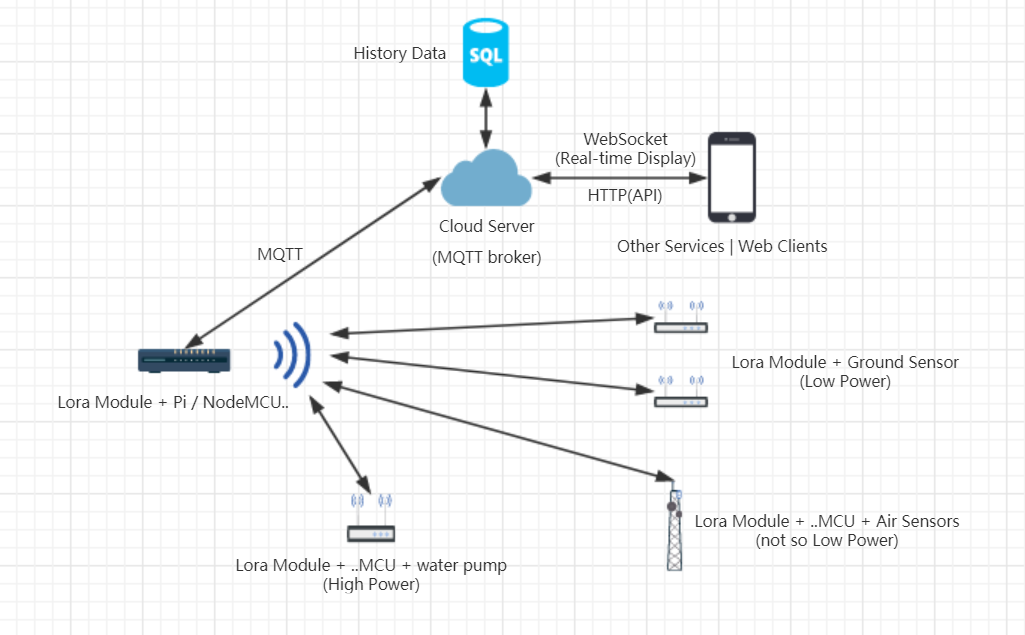
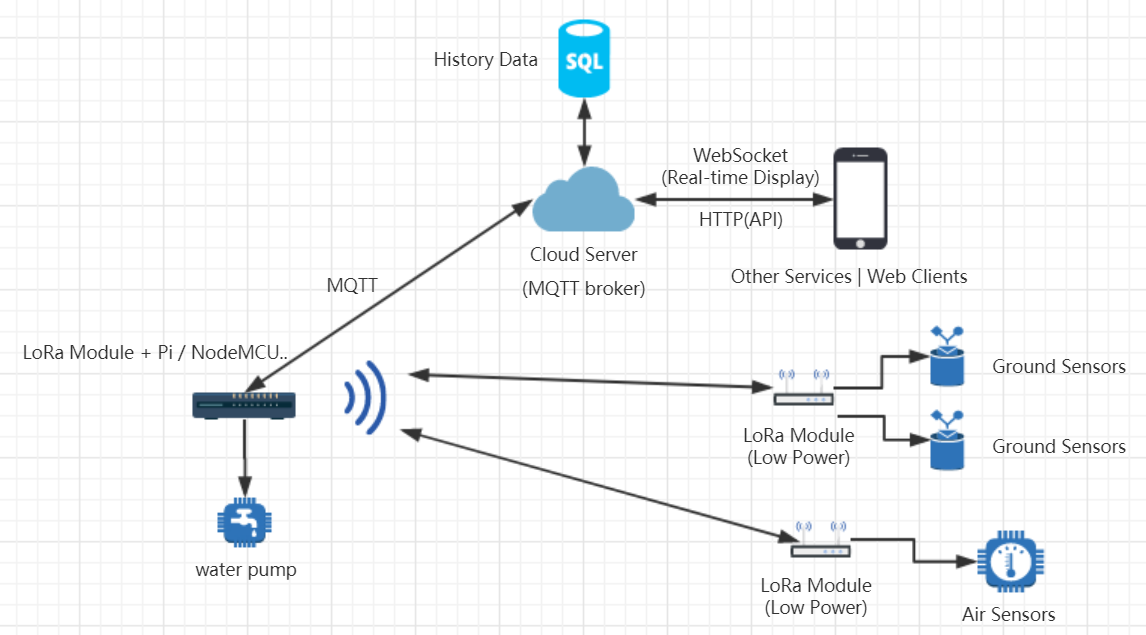
add fake LoRa

diff --git a/materials/architecture/LoRa_plan.md b/materials/architecture/LoRa_plan.md
@@ -10,21 +10,60 @@
 ## Devices
  - VPS x1
  - Gateway(Raspberry Pi / NodeMCU) x1
- - LoRa Module x5
- - ..MCU(Nano / STM32 / NodeMCU) x2
+ - ..LoRa Module x3
 
 ## Features
- - Key Point Low Power
+ - Cost: around ￥600 except Sensors and Raspberry Pi
+ - Ground Sensor Nodes Low Power
+ - Air Sensor Node Low Power
  - Simple Network Topology
  - Provide HTTP and WebSocket API, Easy to support a Website/App Demo Page
  - Both the Water Pump unit and the Sensor unit are flexible to move
+ - Security and Privacy
 
 ## Shortages
- - The selection of LoRa module is undetermined, hopefully we can decide it in two days after a talk with the iot company we used to study
+ - Cost a lot
+ - Need to learn a lot about LoRa
+ - The water pump is not wireless, not so convinence
+ - Waterproof still need to be solved
+
+
+
+
+
+# Fake LoRa PLAN
+
+## System Architecture
+![LoRa PLAN](./.img/fake-LoRa-PLAN.png)
+
+## Objectives
+ - Available
+ - Reliable
+
+## Devices
+ - VPS x1
+ - Gateway(Raspberry Pi / NodeMCU) x1
+ - ..SI4438 x5
+ - ..MCU(Nano / STM32 / NodeMCU) x2
+ - Low Power MCU (LPMCU) x2
+
+## Features
+ - Cost: around ￥300 except Sensors and Raspberry Pi
+ - Ground Sensor Nodes Low Power
+ - Simple Network Topology
+ - Provide HTTP and WebSocket API, Easy to support a Website/App Demo Page
+ - Both the Water Pump unit and the Sensor unit are flexible to move
+ - Easy to dev
+
+## Shortages
+ - There maybe noise in 433MHz as it is an open frequency
+ - The security and privacy are hard to guarantee
  - Waterproof still need to be solved
 
 
 ## Other Materials
-
+### MCUs for Low Power Purpose
+ - Arduino Nano (Remove micro USB Module and LED)
+ - Arduino Pro Mini (Remove LED)
 ### Power Consumption for MCUs
 ![](https://www.arduino.cn/data/attachment/forum/201704/01/135127gxjcfs69plcsxyj3.png)
